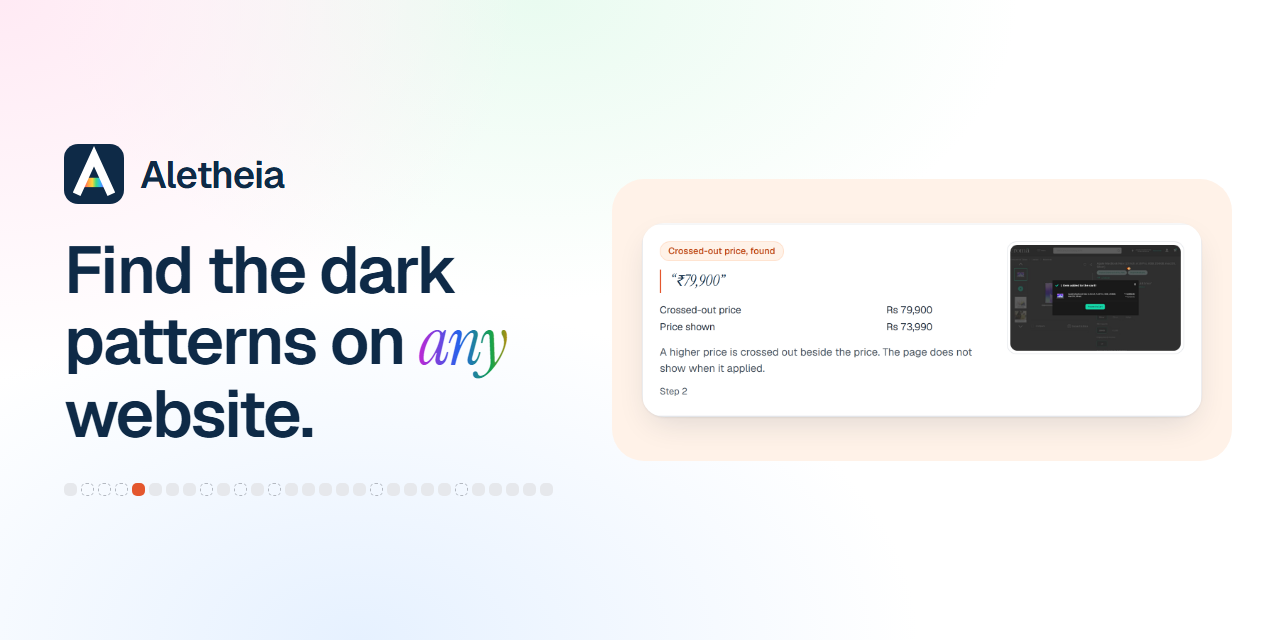
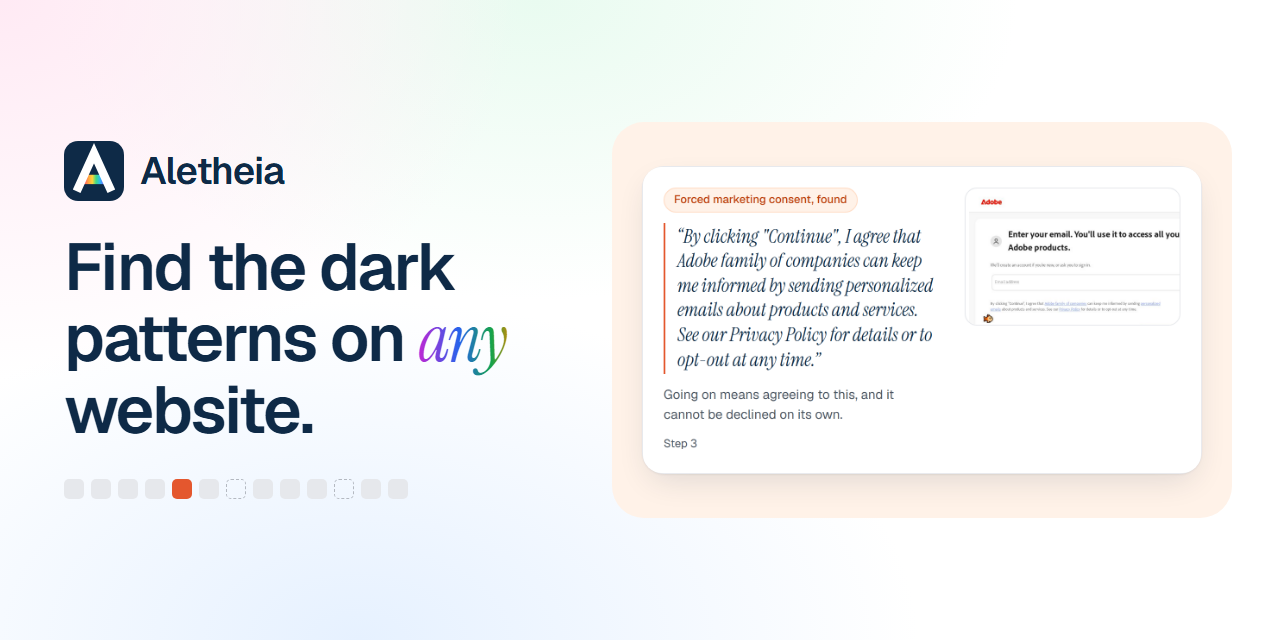
docs: restored the earlier social preview with a finding from the showcase audit

diff --git a/docs/design/social-preview.html b/docs/design/social-preview.html
@@ -41,13 +41,13 @@
       }
 
       .strip {
-        gap: 4px;
+        gap: 7px;
         margin-top: 34px;
       }
 
       .strip i {
-        height: 13px;
-        width: 13px;
+        height: 20px;
+        width: 20px;
       }
 
       .panel {
@@ -68,20 +68,17 @@
         </div>
         <h1>Find the dark patterns on <em class="accent">any</em> website.</h1>
         <div class="strip" aria-hidden="true">
-          <i></i><i class="unchecked"></i><i class="unchecked"></i><i class="unchecked"></i
-          ><i class="found"></i><i></i><i></i><i></i><i class="unchecked"></i><i></i>
-          <i class="unchecked"></i><i></i><i class="unchecked"></i><i></i><i></i><i></i><i></i
-          ><i></i><i class="unchecked"></i><i></i> <i></i><i></i><i></i><i class="unchecked"></i
-          ><i></i><i></i><i></i><i></i><i></i>
+          <i></i><i></i><i></i><i></i><i class="found"></i><i></i><i class="unchecked"></i><i></i
+          ><i></i><i></i><i class="unchecked"></i><i></i><i></i>
         </div>
       </section>
       <section class="panel">
         <img
           class="evidence"
           src="finding.png"
-          alt="A crossed-out price finding on a laptop checkout, with its quote, step and screenshot"
+          alt="A forced marketing consent finding, with its quote, step and screenshot"
           width="560"
-          height="194"
+          height="308"
         />
       </section>
     </main>

diff --git a/docs/design/how-it-works.html b/docs/design/how-it-works.html
@@ -173,9 +173,9 @@
         <img
           class="evidence"
           src="finding.png"
-          alt="A crossed-out price finding on a laptop checkout, with its quote, step and screenshot"
+          alt="A forced marketing consent finding, with its quote, step and screenshot"
           width="560"
-          height="194"
+          height="308"
         />
       </section>
     </main>
